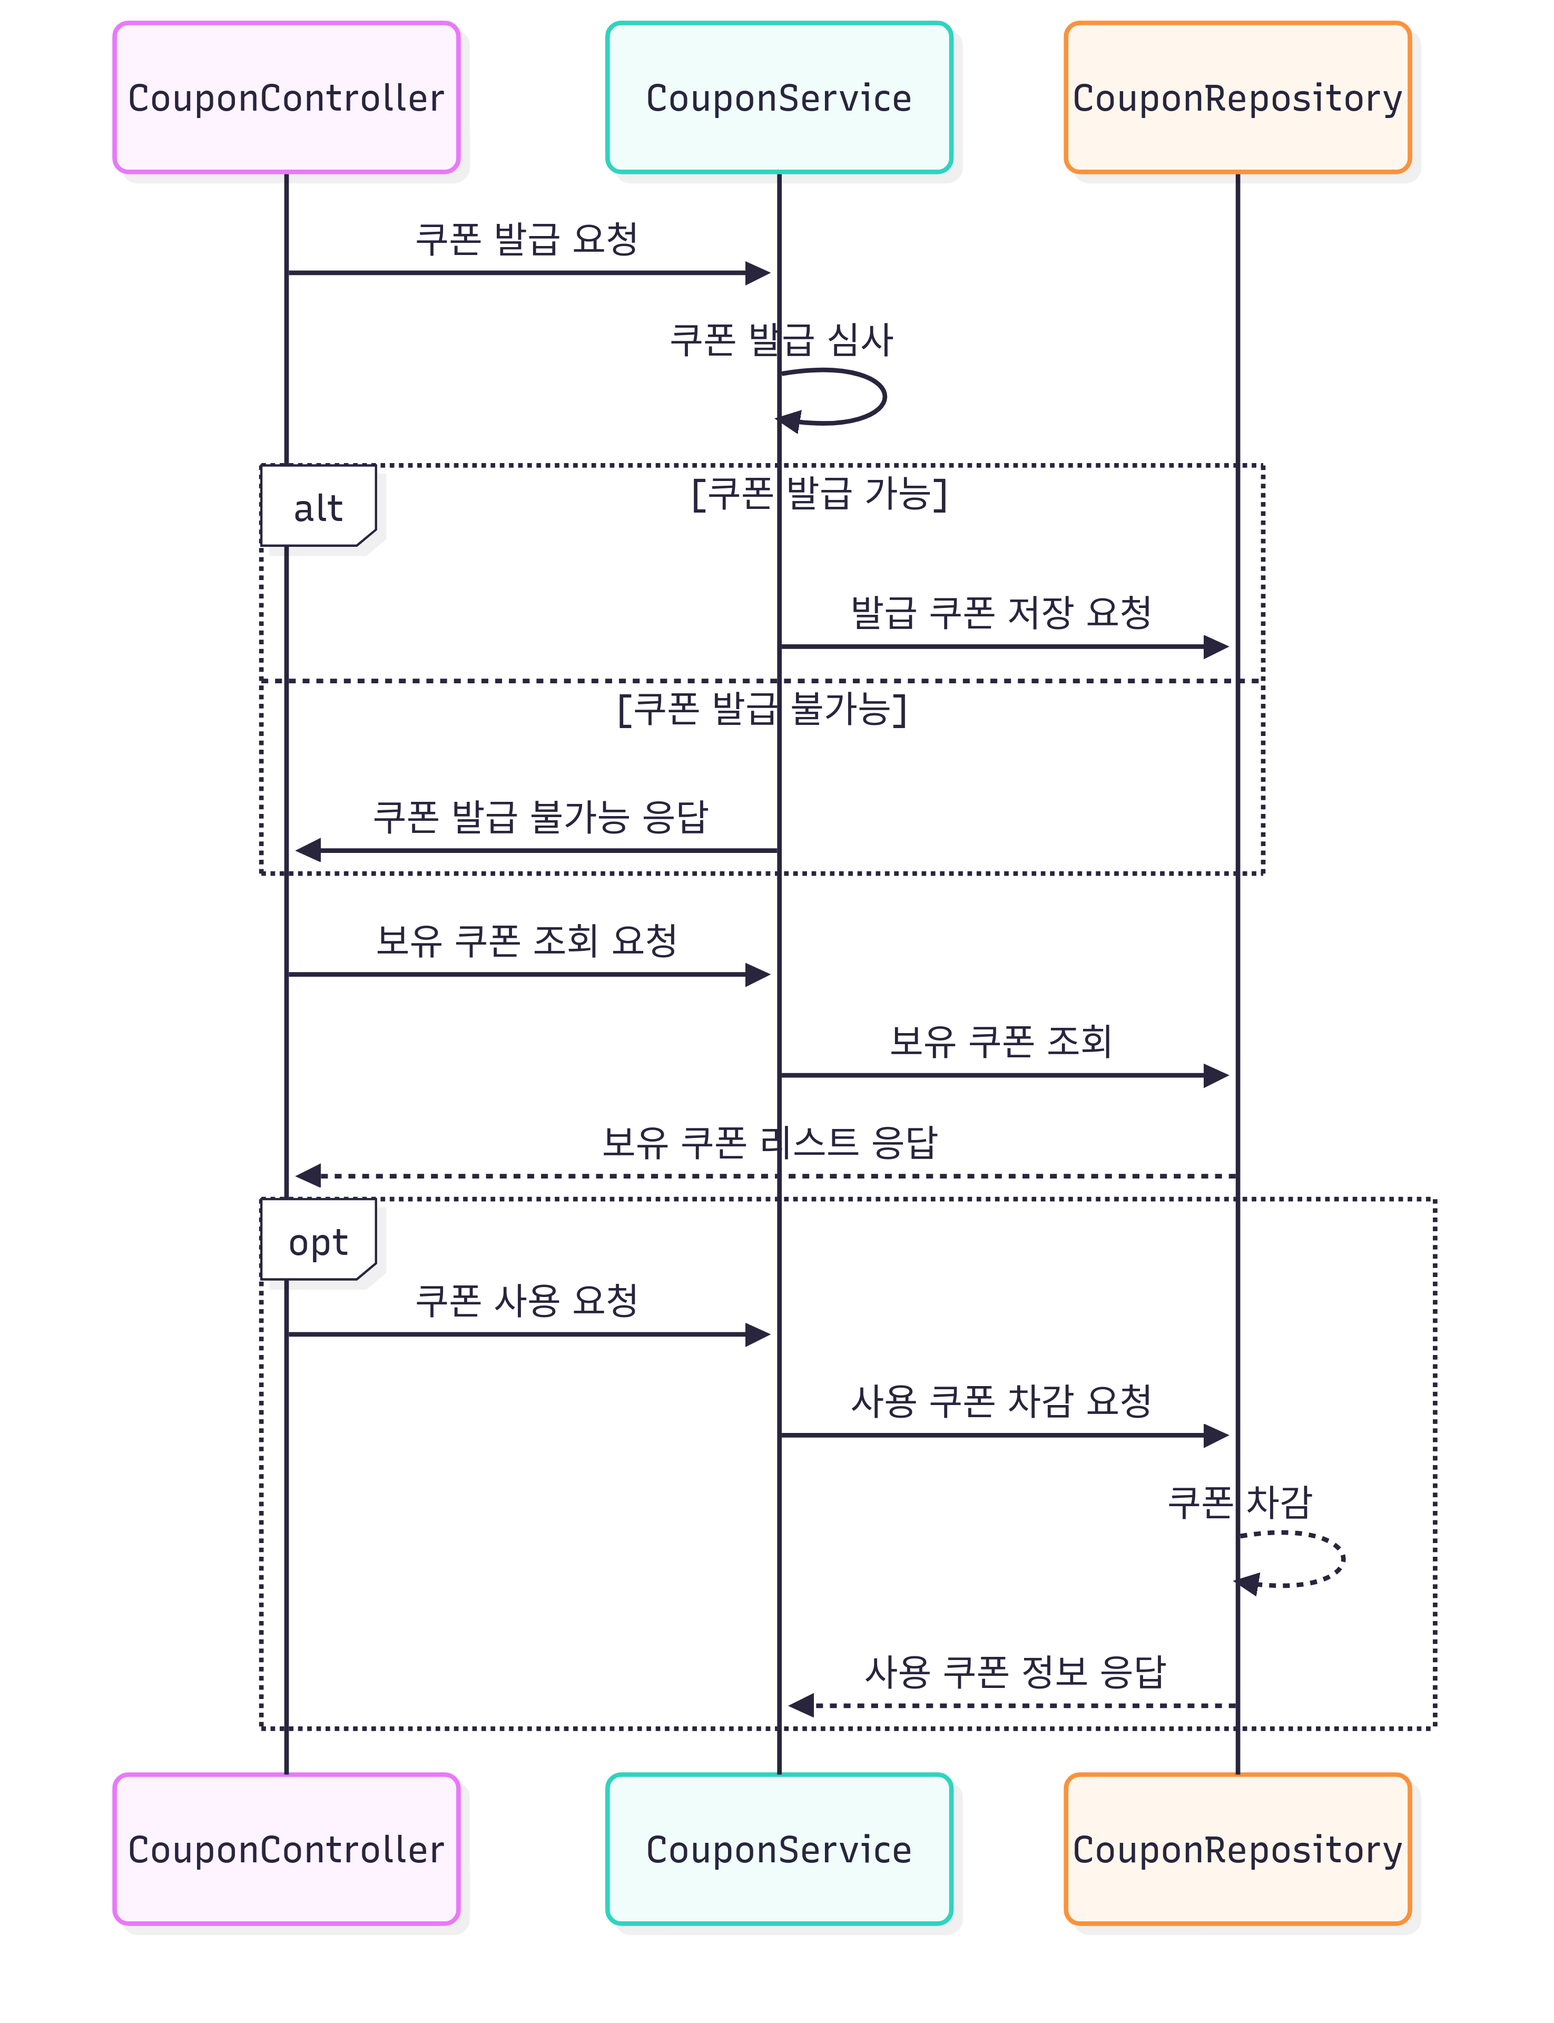
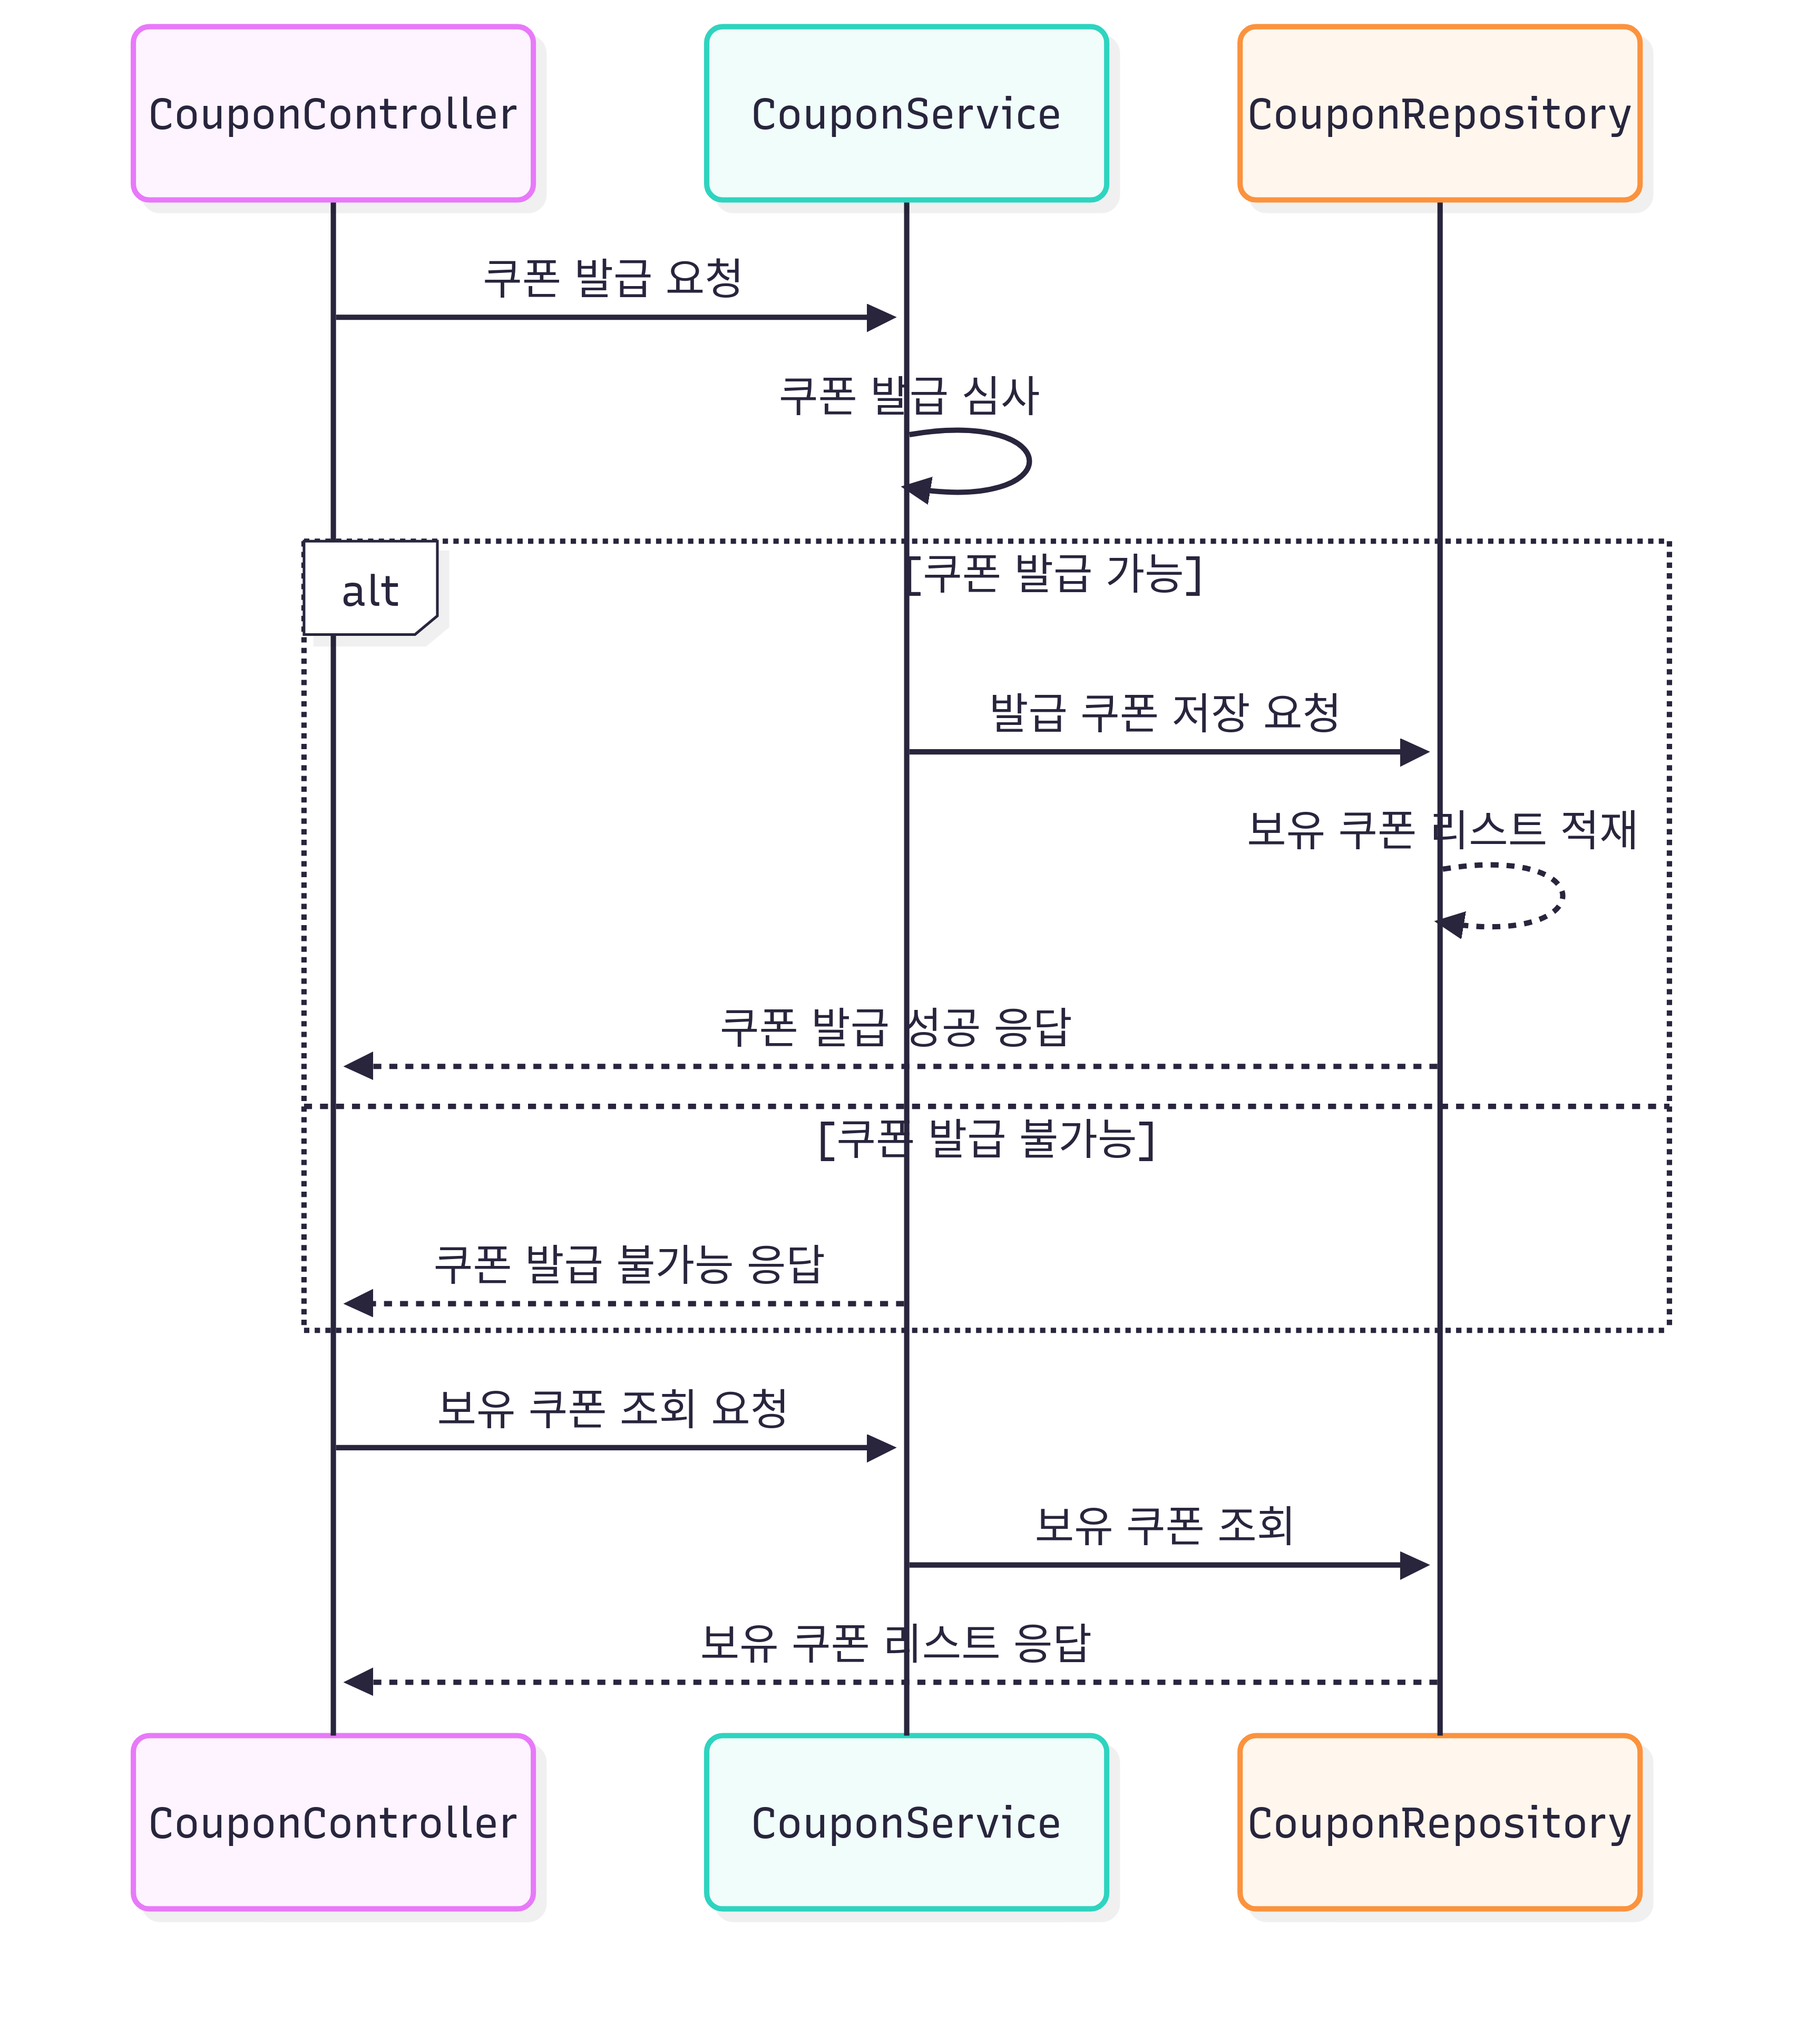
시퀀스 다이어그램 수정2

diff --git a/README.md b/README.md
@@ -59,18 +59,14 @@ sequenceDiagram
         CouponService->>CouponService: 쿠폰 발급 심사
         alt 쿠폰 발급 가능
             CouponService->>CouponRepository: 발급 쿠폰 저장 요청
+            CouponRepository-->>CouponRepository: 보유 쿠폰 리스트 적재
+            CouponRepository-->>CouponController: 쿠폰 발급 성공 응답
         else 쿠폰 발급 불가능
-            CouponService->>CouponController: 쿠폰 발급 불가능 응답
+            CouponService-->>CouponController: 쿠폰 발급 불가능 응답
         end
         CouponController->>CouponService: 보유 쿠폰 조회 요청
         CouponService->>CouponRepository: 보유 쿠폰 조회
         CouponRepository-->>CouponController: 보유 쿠폰 리스트 응답
-        opt
-            CouponController->>CouponService: 쿠폰 사용 요청
-            CouponService->>CouponRepository: 사용 쿠폰 차감 요청
-            CouponRepository-->>CouponRepository: 쿠폰 차감
-            CouponRepository-->>CouponService: 사용 쿠폰 정보 응답
-        end
 ```
 ![img_1.png](img_1.png)
 
@@ -78,39 +74,39 @@ sequenceDiagram
 - 상품 주문 및 결제
 ```mermaid
 sequenceDiagram
-    OrderController->>OrderService: 상품 주문 요청
-    OrderService->>ProductService: 상품 재고 조회 요청
-    ProductService->>ProductService: 상품 재고 조회 요청
-    alt 요청수량 <= 상품재고 : 주문 가능
-        ProductService-->>OrderController: 상품 주문 가능 응답
-        opt 
-            OrderController->>CouponService: 보유 쿠폰 목록 요청
-            CouponService-->>OrderController: 보유 쿠폰 목록 응답
-            alt 쿠폰 사용
-            OrderController->>CouponService: 쿠폰 사용 요청
-            CouponService-->>CouponService: 사용 쿠폰 삭제, 히스토리 적재
-            CouponService-->>OrderController: 사용 쿠폰 응답
-            OrderController-->>OrderController: 주문금액에 쿠폰 적용
-            end
-        end
-        OrderController->>OrderService: 주문 결제 요청
-        OrderService->>PointService: 잔액 확인 요청
-        PointService-->>PointService: 잔액 확인
-        PointService-->>OrderService: 잔액 응답
-        alt 주문금액 <= 잔액 : 주문 가능
-                OrderService->>ProductService: 상품 재고 차감 요청
-                ProductService-->>ProductService: 상품 재고 차감
-                ProductService-->>OrderService: 차감 완료 응답
-                OrderService->>PointService: 포인트 사용 요청
-                PointService-->>PointService: 잔액 차감 및 히스토리 적재
-                PointService-->>OrderService: 재고 차감 완료 응답
-                OrderService-->>OrderController: 주문 번호 반환
-            else 주문금액 > 잔액: 주문 불가능
-                OrderService-->>OrderController: 잔액 부족 에러
-            end
-    else 요청수량 > 상품재고 : 주문 불가능
-        ProductService-->>OrderController: 재고 부족 응답
+  OrderController ->> OrderService: 상품 주문 요청
+  OrderService ->> ProductService: 상품 재고 조회 요청
+  ProductService ->> ProductService: 상품 재고 조회 요청
+  alt 요청수량 <= 상품재고 : 주문 가능
+    ProductService -->> OrderController: 상품 주문 가능 응답
+    opt 
+      OrderController ->> CouponService: 보유 쿠폰 목록 요청
+      CouponService -->> OrderController: 보유 쿠폰 목록 응답
+      OrderController -->> OrderController: 주문금액에 쿠폰 적용
     end
+    OrderController ->> OrderService: 주문 결제 요청
+    OrderService ->> PointService: 잔액 확인 요청
+    PointService -->> PointService: 잔액 확인
+    PointService -->> OrderService: 잔액 응답
+    alt 주문금액 <= 잔액 : 주문 가능
+      OrderService ->> ProductService: 상품 재고 차감 요청
+      ProductService -->> ProductService: 상품 재고 차감
+      ProductService -->> OrderService: 차감 완료 응답
+      opt 
+        OrderService ->> CouponService: 쿠폰 적용 요청
+        CouponService -->> CouponService: 사용 쿠폰 삭제, 히스토리 적재
+      end
+      OrderService ->> PointService: 포인트 사용 요청
+      PointService -->> PointService: 잔액 차감 및 히스토리 적재
+      PointService -->> OrderService: 재고 차감 완료 응답
+      OrderService ->> OrderRepository: 주문 내역 생성
+      OrderRepository -->> OrderController: 주문 번호 반환
+    else 주문금액 > 잔액: 주문 불가능
+      OrderService -->> OrderController: 잔액 부족 에러
+    end
+  else 요청수량 > 상품재고 : 주문 불가능
+    ProductService -->> OrderController: 재고 부족 응답
+  end
 ```
 ![img_2.png](img_2.png)
 
